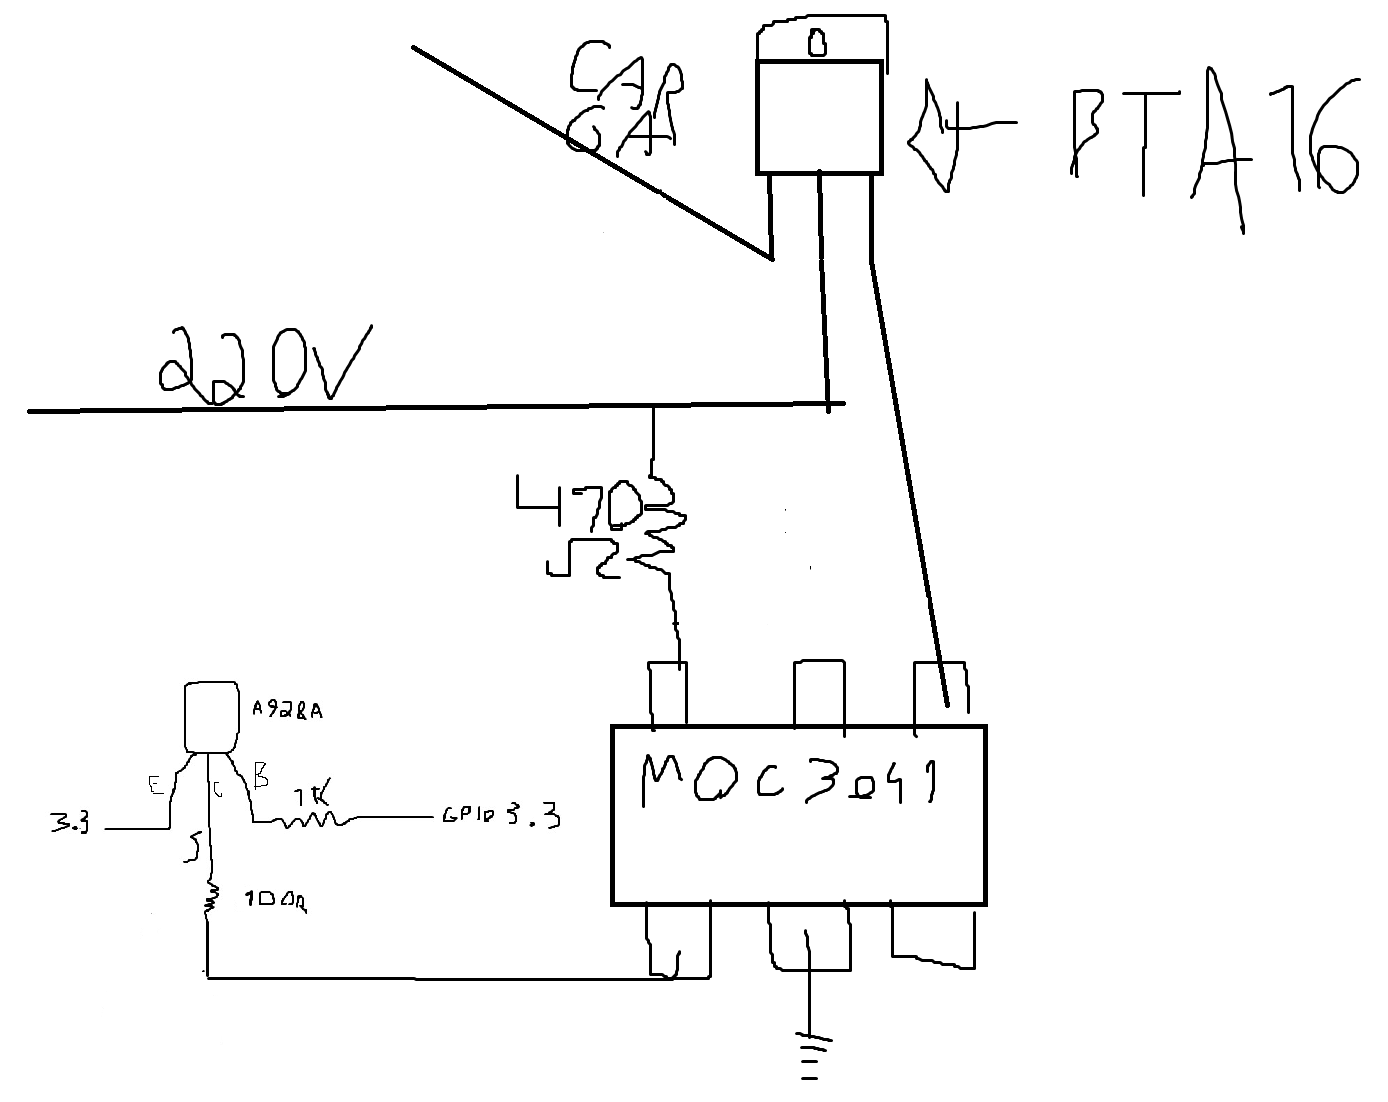
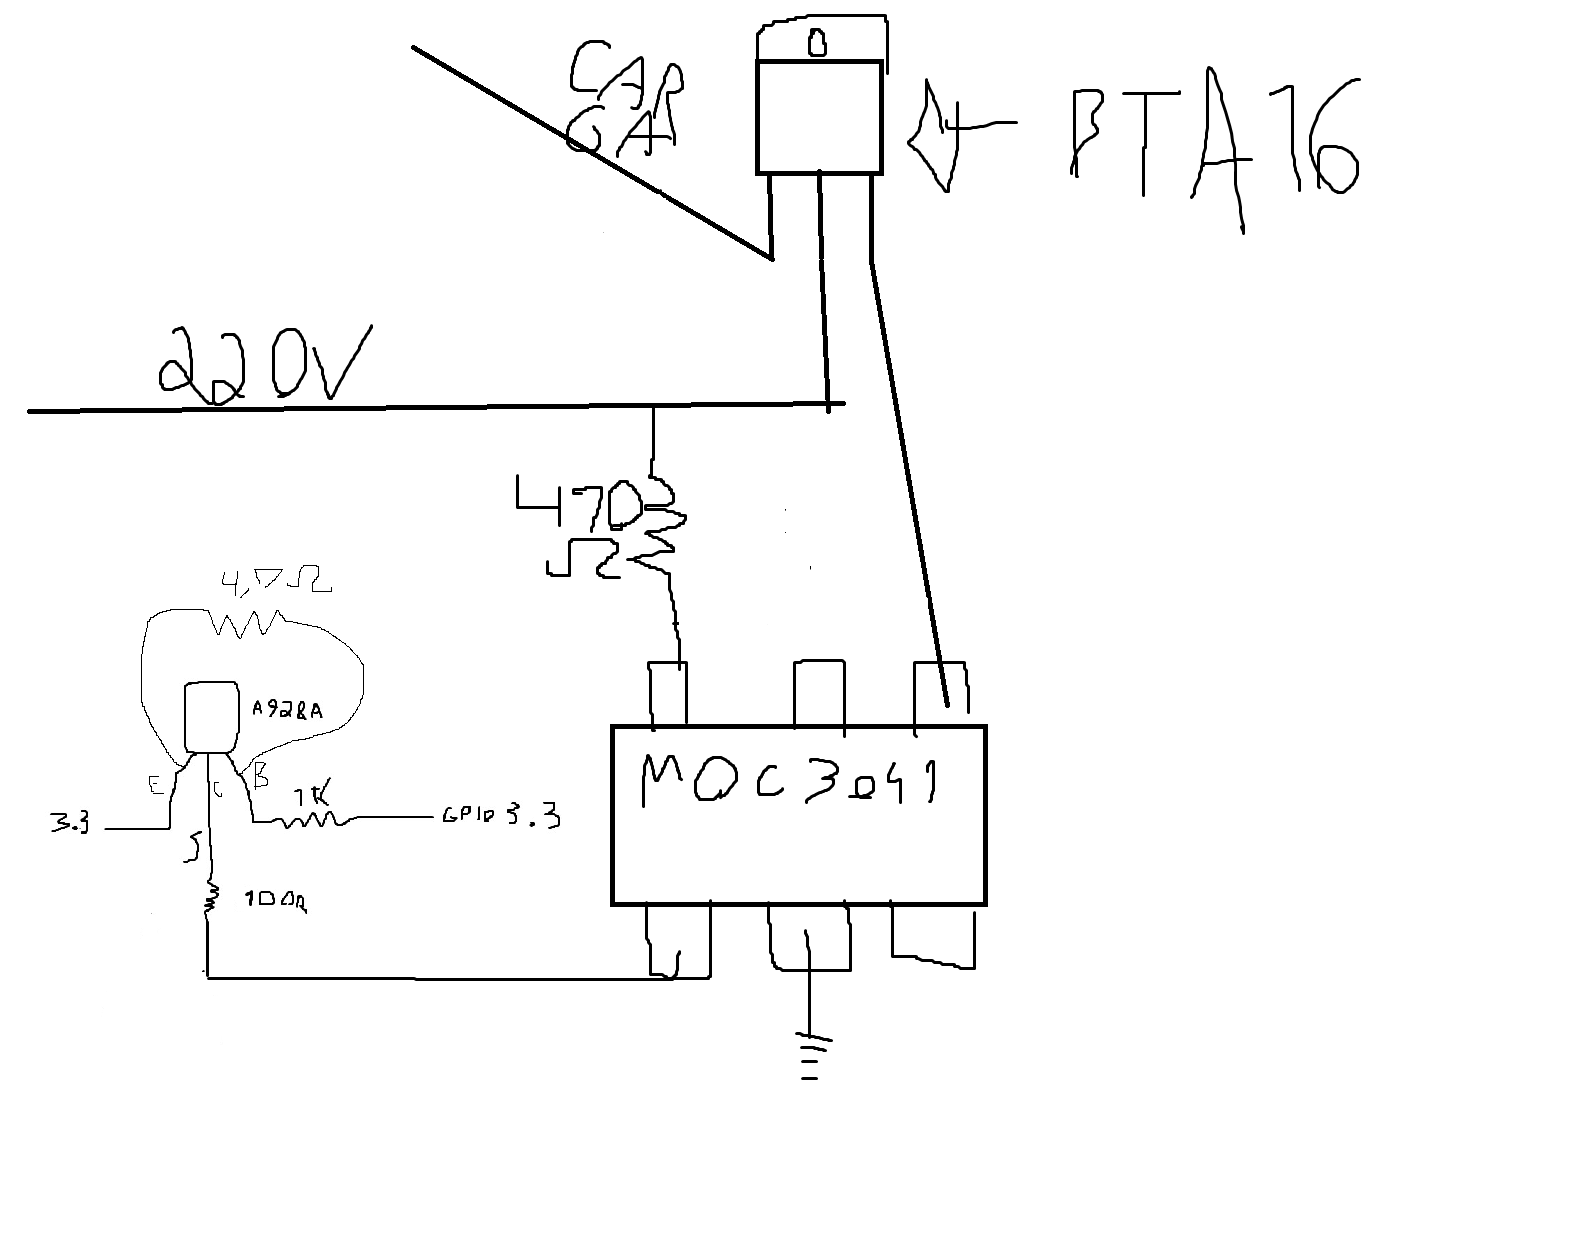
.

diff --git a/module/display/display.c b/module/display/display.c
@@ -44,8 +44,6 @@ void display_update(const core0_state_t *state)
         // Verifica se o Triac está aplicando potência na resistência
         const char *heater_status = (state->triac_power_applied > 0U) ? "ON " : "OFF";
 
-        // Monta a linha 1 cravando exatamente 16 caracteres para limpar a tela
-        // %3ld.%1ld ocupa 5 espaços, \xDF (1 espaço), C (1 espaço), %3s (3 espaços do ON/OFF)
         snprintf(
             line1,
             sizeof(line1),
